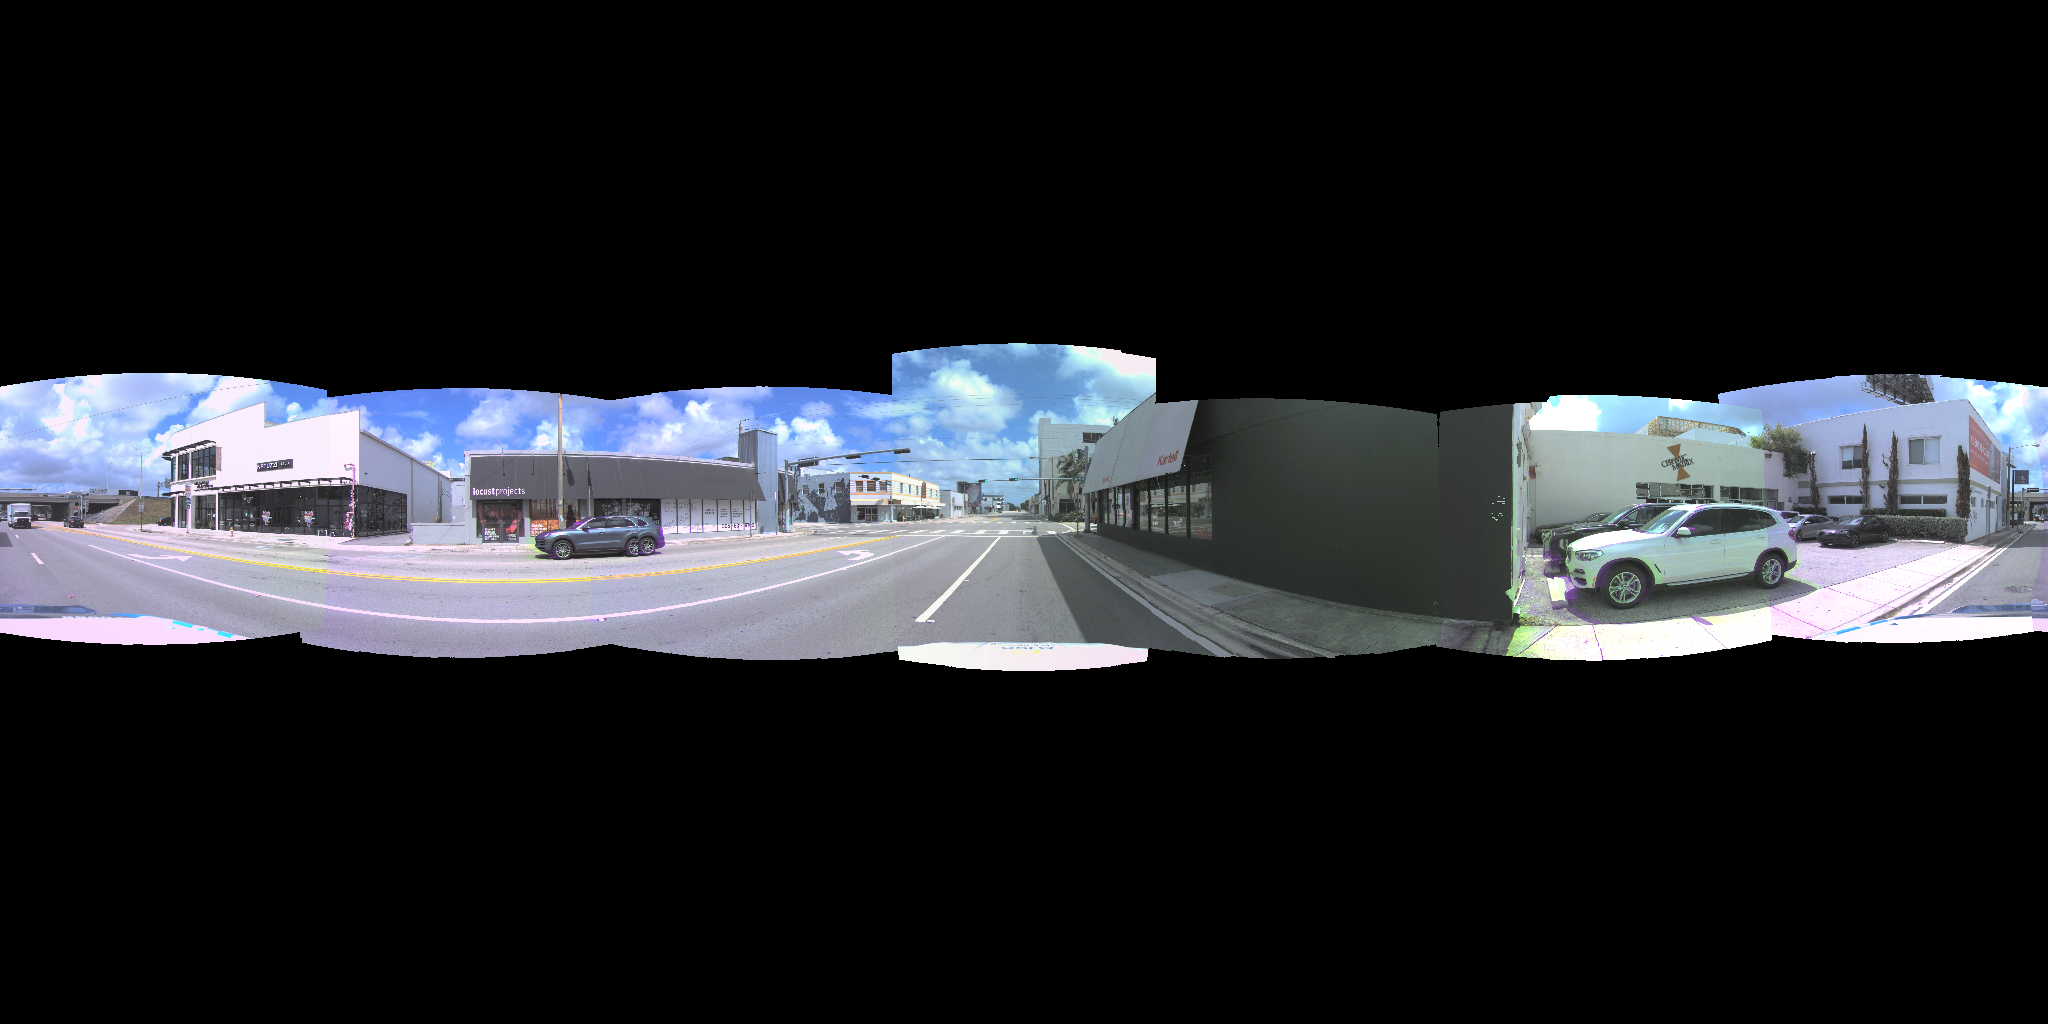
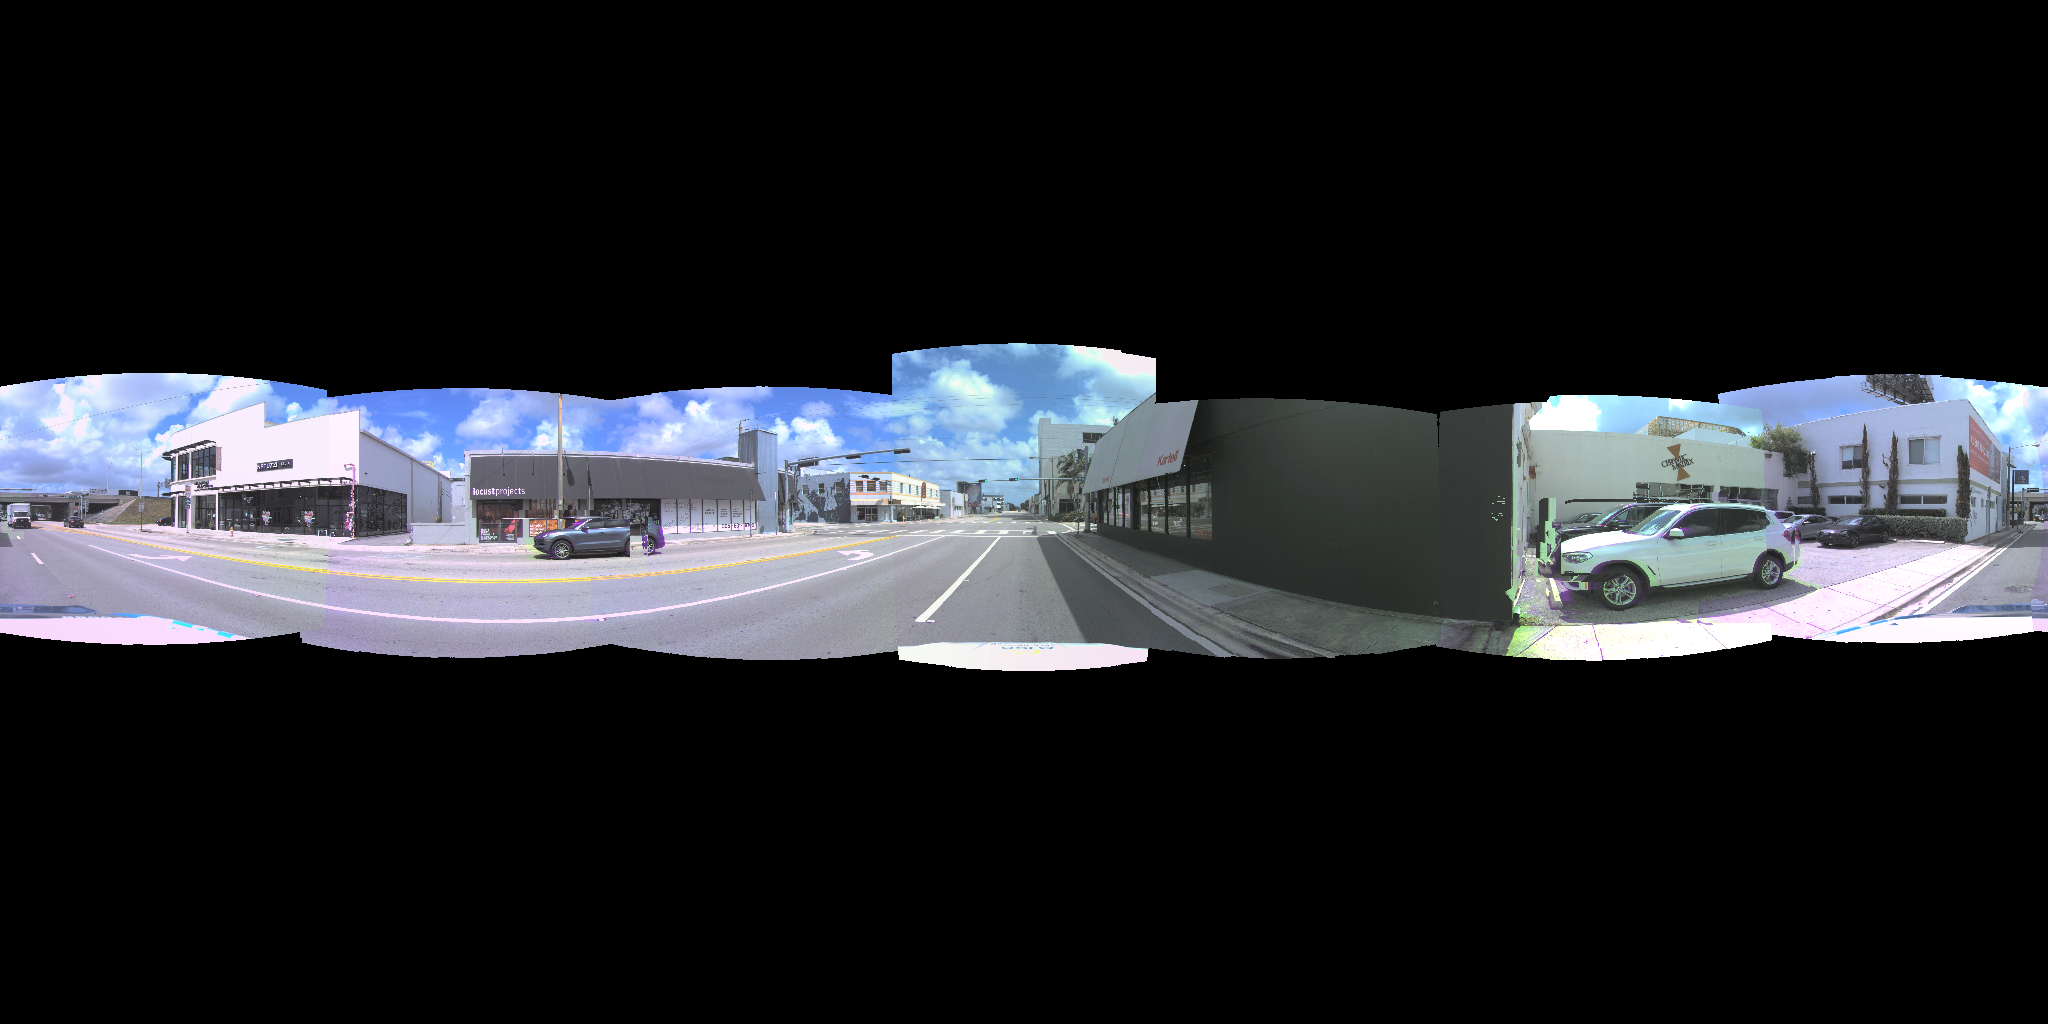
DB-87 v1-v3 all killed; failure triangle points at image-level silhouette as the missing input; DB-88 options written (segmentation-bounded compositing vs static-world panorama)
- v2 exposed the true mechanism: single-camera disocclusion SELF-PRINT, not two-camera doubling
- v3 temporal fill eats the car (box-geometry silhouette wrong by 10-30px in some direction)
- cen_depth_b1_emc stays the best render

Changed region(s): [[0.75, 0.4688, 0.9062, 0.625], [0.2188, 0.5, 0.3438, 0.5625], [0.5312, 0.5, 0.5625, 0.5312]]

diff --git a/scripts/phase3/db87_emc_objlock.py b/scripts/phase3/db87_emc_objlock.py
@@ -307,17 +307,23 @@ def run_case(case_spec, run_name):
         Ri, ti_ = cte(cam_ts[cam])
         poses_emc.append((Ra.T @ Ri @ T[:3, :3], Ra.T @ (Ri @ T[:3, 3] + ti_ - ta)))
     emc = render(frame, ring_cams, C, Zd, gains, poses_emc)
-    # moving-object lock: per-camera exposure-time box footprints, EMC-consistent
+    # v3 — the mechanism-complete design:
+    # BODY: ray-OBB of box@t_{c_own} (tight pad) -> FORCE c_own, depth untouched (the colour
+    #   c_own returns there IS the car; <1px placement error from the wrong depth).
+    # PENUMBRA: union-rect minus body -> these rays show background that c_own cannot see
+    #   (blocked by its own image of the car) -> TEMPORAL FILL (the car drives away within a
+    #   few frames; DB-84 measured 100% temporal visibility here). Depth never overridden.
     lockmap = np.full(H * W, -1, np.int16)
-    lockdepth = np.zeros(H * W, np.float32)
+    lockdepth = np.zeros(H * W, np.float32)   # stays zero: depth is NEVER overridden
+    penmask = np.zeros(H * W, bool)
     lockcam = []
     n_handled = 0
+    PAD_U, PAD_V = 14, 8
     for uid in sorted(moving):
         g = ann[ann["track_uuid"] == uid]
         nt = g["timestamp_ns"].to_numpy(np.int64)
         if np.abs(nt - ts).min() > 150_000_000: continue
-        per_cam = {}
-        oid = len(lockcam)
+        u_lo, u_hi, v_lo, v_hi = None, None, None, None
         best_ci, best_margin = -1, -1.0
         for ci, cam in enumerate(ring_cams):
             pose = track_pose_at(ann, uid, cam_ts[cam], cte, Ra, ta)
@@ -325,9 +331,19 @@ def run_case(case_spec, run_name):
             c_a, sz, R_a = pose
             dist = float(np.linalg.norm(c_a - C))
             if dist > OBJ_MAX_DIST or dist < 1.0: continue
-            flat, tent = ray_obb_region(c_a, sz, R_a, C)
-            if flat.size == 0: continue
-            per_cam[ci] = (flat, tent)
+            half = sz / 2
+            corners = np.array([[sx * half[0], sy * half[1], sz_ * half[2]]
+                                for sx in (-1, 1) for sy in (-1, 1) for sz_ in (-1, 1)])
+            P = (corners @ R_a.T) + c_a[None, :]
+            Q = P - C[None, :]
+            nrm = np.linalg.norm(Q, axis=1); dq = Q / nrm[:, None]
+            th = np.arctan2(dq[:, 1], dq[:, 0]); ph = np.arcsin(np.clip(dq[:, 2], -1, 1))
+            uu = (np.pi - th) / (2 * np.pi) * W; vv = (np.pi / 2 - ph) / np.pi * H
+            if uu.max() - uu.min() > W / 2: continue   # wrap case: skip (none in these scenes)
+            u_lo = uu.min() if u_lo is None else min(u_lo, uu.min())
+            u_hi = uu.max() if u_hi is None else max(u_hi, uu.max())
+            v_lo = vv.min() if v_lo is None else min(v_lo, vv.min())
+            v_hi = vv.max() if v_hi is None else max(v_hi, vv.max())
             K = np.asarray(frame.calibrations[cam].K, float)
             Rc, tc = poses_emc[ci]
             Xc = Rc.T @ (c_a - tc)
@@ -338,22 +354,105 @@ def run_case(case_spec, run_name):
             margin = min(px, ww - px) / ww
             if margin > best_margin:
                 best_margin = margin; best_ci = ci
-        if best_ci < 0 or not per_cam: continue
+        if best_ci < 0 or u_lo is None: continue
+        pose_b = track_pose_at(ann, uid, cam_ts[ring_cams[best_ci]], cte, Ra, ta)
+        if pose_b is None: continue
+        body_flat, _bt = ray_obb_region(pose_b[0], pose_b[1], pose_b[2], C, pad=1.0)
+        if body_flat.size == 0: continue
         n_handled += 1
+        oid = len(lockcam)
         lockcam.append(best_ci)
-        for ci, (flat, tent) in per_cam.items():
-            lockmap[flat] = oid
-        flat_b, tent_b = per_cam.get(best_ci, (np.zeros(0, np.int64), np.zeros(0, np.float32)))
-        lockdepth[flat_b] = tent_b
+        lockmap[body_flat] = oid          # BODY: forced to c_own
+        r0 = max(int(v_lo) - PAD_V, 0); r1 = min(int(v_hi) + PAD_V, H - 1)
+        c0 = max(int(u_lo) - PAD_U, 0); c1 = min(int(u_hi) + PAD_U, W - 1)
+        rectsel = np.zeros(H * W, bool)
+        rr, cc = np.meshgrid(np.arange(r0, r1 + 1), np.arange(c0, c1 + 1), indexing="ij")
+        rectsel[(rr * W + cc).reshape(-1)] = True
+        rectsel[body_flat] = False
+        penmask |= rectsel                # PENUMBRA: temporal fill targets
     lock = {"map": lockmap.reshape(H, W), "cam": np.array(lockcam, np.int8) if lockcam else np.zeros(0, np.int8),
             "depth": lockdepth.reshape(H, W)}
     fixed = render(frame, ring_cams, C, Zd, gains, poses_emc, lock=lock if lockcam else None)
+    # TEMPORAL FILL of the penumbra: real background from frames where the car has moved away.
+    n_filled = 0
+    if penmask.any():
+        from depth_visibility_seam_probe import _parse_case  # for loader reuse pattern
+        zone_flat = np.nonzero(penmask)[0]
+        zdirs = DIRS.reshape(-1, 3)[zone_flat]
+        Zv = Zd.reshape(-1)[zone_flat].astype(np.float64)
+        Xz = C[None, :] + Zv[:, None] * zdirs
+        X_city = (Ra @ Xz.T).T + ta
+        # synced frame list around the anchor
+        from waymo2panorama.data_io.av2_loader import AV2RingLoader
+        loader2 = AV2RingLoader(log_dir)
+        all_ts2 = loader2.anchor_timestamps_ns()
+        ai = int(np.argmin(np.abs(np.asarray(all_ts2) - ts)))
+        chosen = np.full(zone_flat.size, -1, np.int32)
+        chosen_bp = np.full(zone_flat.size, np.inf)
+        cals2 = [(np.asarray(frame.calibrations[c].K, float), np.asarray(frame.calibrations[c].T_ego_cam, float),
+                  frame.images[c].shape[:2]) for c in ring_cams]
+        def seg_blocked2(o, Xq, boxes_q):
+            outb = np.zeros(len(Xq), bool)
+            for c2, sz2, R2 in boxes_q:
+                half2 = sz2 / 2 * 1.05
+                o_loc = R2.T @ (o - c2)
+                d_loc = (Xq - o[None, :]) @ R2
+                with np.errstate(divide="ignore", invalid="ignore"):
+                    inv = 1.0 / d_loc
+                    t1 = (-half2[None, :] - o_loc[None, :]) * inv
+                    t2 = (half2[None, :] - o_loc[None, :]) * inv
+                tmin = np.nanmax(np.minimum(t1, t2), axis=1)
+                tmax = np.nanmin(np.maximum(t1, t2), axis=1)
+                outb |= (tmax >= np.maximum(tmin, 0.0)) & (tmin < 0.97) & (tmin > 0.02)
+            return outb
+        for fi in range(max(0, ai - 10), min(len(all_ts2) - 1, ai + 10) + 1):
+            if fi == ai: continue
+            tsf = int(all_ts2[fi])
+            Rf, tf = cte(tsf)
+            Xf = (X_city - tf[None, :]) @ Rf
+            fboxes = boxes_at(ann, tsf, moving)   # moving objects at THAT frame block sightlines
+            for ci2, (K2, T2, (hh2, ww2)) in enumerate(cals2):
+                Tci2 = np.linalg.inv(T2)
+                Xc2 = (Tci2[:3, :3] @ Xf.T).T + Tci2[:3, 3]; z2 = Xc2[:, 2]
+                px2 = K2[0, 0] * Xc2[:, 0] / np.maximum(z2, 1e-6) + K2[0, 2]
+                py2 = K2[1, 1] * Xc2[:, 1] / np.maximum(z2, 1e-6) + K2[1, 2]
+                okq = (z2 > 0.5) & (px2 >= 2) & (px2 < ww2 - 2) & (py2 >= 2) & (py2 < hh2 - 2)
+                if not okq.any(): continue
+                blocked = np.zeros(zone_flat.size, bool)
+                blocked[okq] = seg_blocked2(T2[:3, 3], Xf[okq], fboxes)
+                visq = okq & ~blocked
+                if not visq.any(): continue
+                cam_city = Rf @ T2[:3, 3] + tf
+                cam_anchor = Ra.T @ (cam_city - ta)
+                cvec2 = cam_anchor - C
+                along2 = zdirs @ cvec2
+                bp2 = np.sqrt(np.maximum(float(cvec2 @ cvec2) - along2 * along2, 0.0))
+                cand = visq & (bp2 < chosen_bp)
+                chosen[cand] = fi * 10 + ci2
+                chosen_bp[cand] = bp2[cand]
+        ffix = fixed.reshape(-1, 3)
+        for code in np.unique(chosen[chosen >= 0]):
+            fi, ci2 = int(code) // 10, int(code) % 10
+            sel = chosen == code
+            fr2 = loader2.load_synced_frame(int(all_ts2[fi]))
+            Rf, tf = cte(int(all_ts2[fi]))
+            Xf = (X_city[sel] - tf[None, :]) @ Rf
+            K2, T2, _s2 = cals2[ci2]
+            Tci2 = np.linalg.inv(T2)
+            Xc2 = (Tci2[:3, :3] @ Xf.T).T + Tci2[:3, 3]; z2 = Xc2[:, 2]
+            px2 = K2[0, 0] * Xc2[:, 0] / np.maximum(z2, 1e-6) + K2[0, 2]
+            py2 = K2[1, 1] * Xc2[:, 1] / np.maximum(z2, 1e-6) + K2[1, 2]
+            img2 = fr2.images[ring_cams[ci2]]
+            g2 = np.exp(gains[ci2])[None, :]
+            col = np.clip(bilinear(img2, px2, py2) * g2, 0, 255)
+            ffix[zone_flat[sel]] = col.astype(np.uint8)
+            n_filled += int(sel.sum())
     save_rgb(REMOTE_OUT / f"{run_name}_emc.png", emc)
     save_rgb(REMOTE_OUT / f"{run_name}_emc_objlock.png", fixed)
     try: f = ImageFont.truetype("DejaVuSans.ttf", 16)
     except Exception: f = ImageFont.load_default()
     rows = []
-    for tag, im in (("EMC (DB-86 base)", emc), (f"EMC + moving-object single-camera lock (n={n_handled})", fixed)):
+    for tag, im in (("EMC (DB-86 base)", emc), (f"EMC + body-lock + temporal penumbra fill (n={n_handled}, filled={n_filled}px)", fixed)):
         pil = Image.fromarray(im).resize((1400, 700))
         bar = Image.new("RGB", (1400, 24), (15, 15, 22)); ImageDraw.Draw(bar).text((6, 4), f"{run_name}  {tag}", (235, 235, 245), font=f)
         o = Image.new("RGB", (1400, 724)); o.paste(bar, (0, 0)); o.paste(pil, (0, 24)); rows.append(o)
@@ -361,7 +460,7 @@ def run_case(case_spec, run_name):
     yo = 6
     for o in rows: board.paste(o, (0, yo)); yo += o.height
     board.save(REMOTE_OUT / f"{run_name}_db87_board.jpg", quality=90)
-    return {"case": run_name, "n_moving_locked": int(n_handled)}
+    return {"case": run_name, "n_moving_locked": int(n_handled), "n_penumbra_filled_px": int(n_filled)}
 
 
 try:

diff --git a/agent/decision_briefs.md b/agent/decision_briefs.md
@@ -172,8 +172,16 @@ Result summary: TBD.
 
 ---
 
-# DB-87: Moving-object single-camera lock ON TOP OF EMC — exposure-time box footprints with EMC poses (CPU/L4, pure geometry)
-Status: **EXPLORED / KILLED per its own clause (2026-06-09 night)** — one /exec, BMW. **Vision verdict: EMC-only WINS.** The objlock variant re-introduced the tail ghost-wheels (third independent confirmation that box-footprint depth claims the box's empty air margin and paints the car's own pixels beside it — the DB-83 v3 mechanism; box-level object tools are now conclusively harmful in this geometry). The pure-EMC render's Porsche is nearly intact: residual = a faint translucent nose-trace (the predicted ~16 px object-self-motion term, largely self-cancelling for this trajectory) + the source-data purple fringe (not geometric). **Decision: cen_depth_b1_emc (NO objlock) is the final renderer form for now.** The faint nose-trace's honest remediation lanes: thin-band flow softening (DB-78/B2) or simply the Cosmos consumer's own appearance re-generation — NOT more box geometry. `deliverables/db87_emc_objlock/`. Secret 0.
+# DB-87: Moving-object handling on EMC — three variants, all killed; the failure triangle now POINTS at the missing piece (image-level silhouette)
+Status: **EXPLORED / KILLED after v1–v3 (2026-06-09 night, 3 /execs = brief cap)** — `deliverables/db87_emc_objlock/`. **cen_depth_b1_emc (no object handling) remains the best render.**
+**The complete failure map (each mechanism verified by eye):**
+- v1 box-footprint + box-depth lock → tail ghost-wheels (box AIR margin painted with the car; 3rd confirmation of the DB-83 v3 mechanism).
+- v2 seam-routing (union rect, no depth change) → SAME ghost — which finally exposed the true mechanism: the ghost was never two-camera doubling; it is the SINGLE responsible camera's **disocclusion self-print** (the c\*-ray to the wall beside the car projects, via the 0.3 m offset, onto the car in that camera's image → the car prints onto the wall). EMC-base is clean there only because the natural Voronoi happened to give that wall to a camera that can actually see it.
+- v3 body-lock + temporal penumbra fill (22k px) → fill EATS the car roof/tail (the union-rect penumbra over-covers; any box-geometry estimate of "which pixels should show the car" is wrong by 10–30 px in some direction — too big eats the car, too small leaves ghost).
+**Conclusion (the three failures triangulate one missing input):** every lane needs the **image-level silhouette of the object in the chosen camera** — box geometry cannot provide it at the required precision. Two successor options (DB-88 candidates, user/Xinhan decision):
+- **(A) Segmentation-bounded compositing:** run an instance segmenter (YOLO-seg/SAM — fits the L4; EXP-A already used YOLO here) on c_own's image; car-mask pixels ← c_own; outside-mask penumbra ← temporal fill. Segmentation decides pixel OWNERSHIP only — no content invented; source-faithfulness preserved.
+- **(B) Static-world panorama:** REMOVE moving objects entirely via temporal fill (the background is 100 % temporally visible — DB-84). For the Cosmos first-frame this may be the more honest product: a 35 ms-skewed moving car is temporal noise to a video model whose geometry comes from the point-cloud track anyway. Changes product semantics — needs the user/Xinhan call.
+Residual on the EMC base meanwhile: a faint translucent nose-trace + source-data purple fringe — both thin-band class. Secret 0.
 
 ---
 
